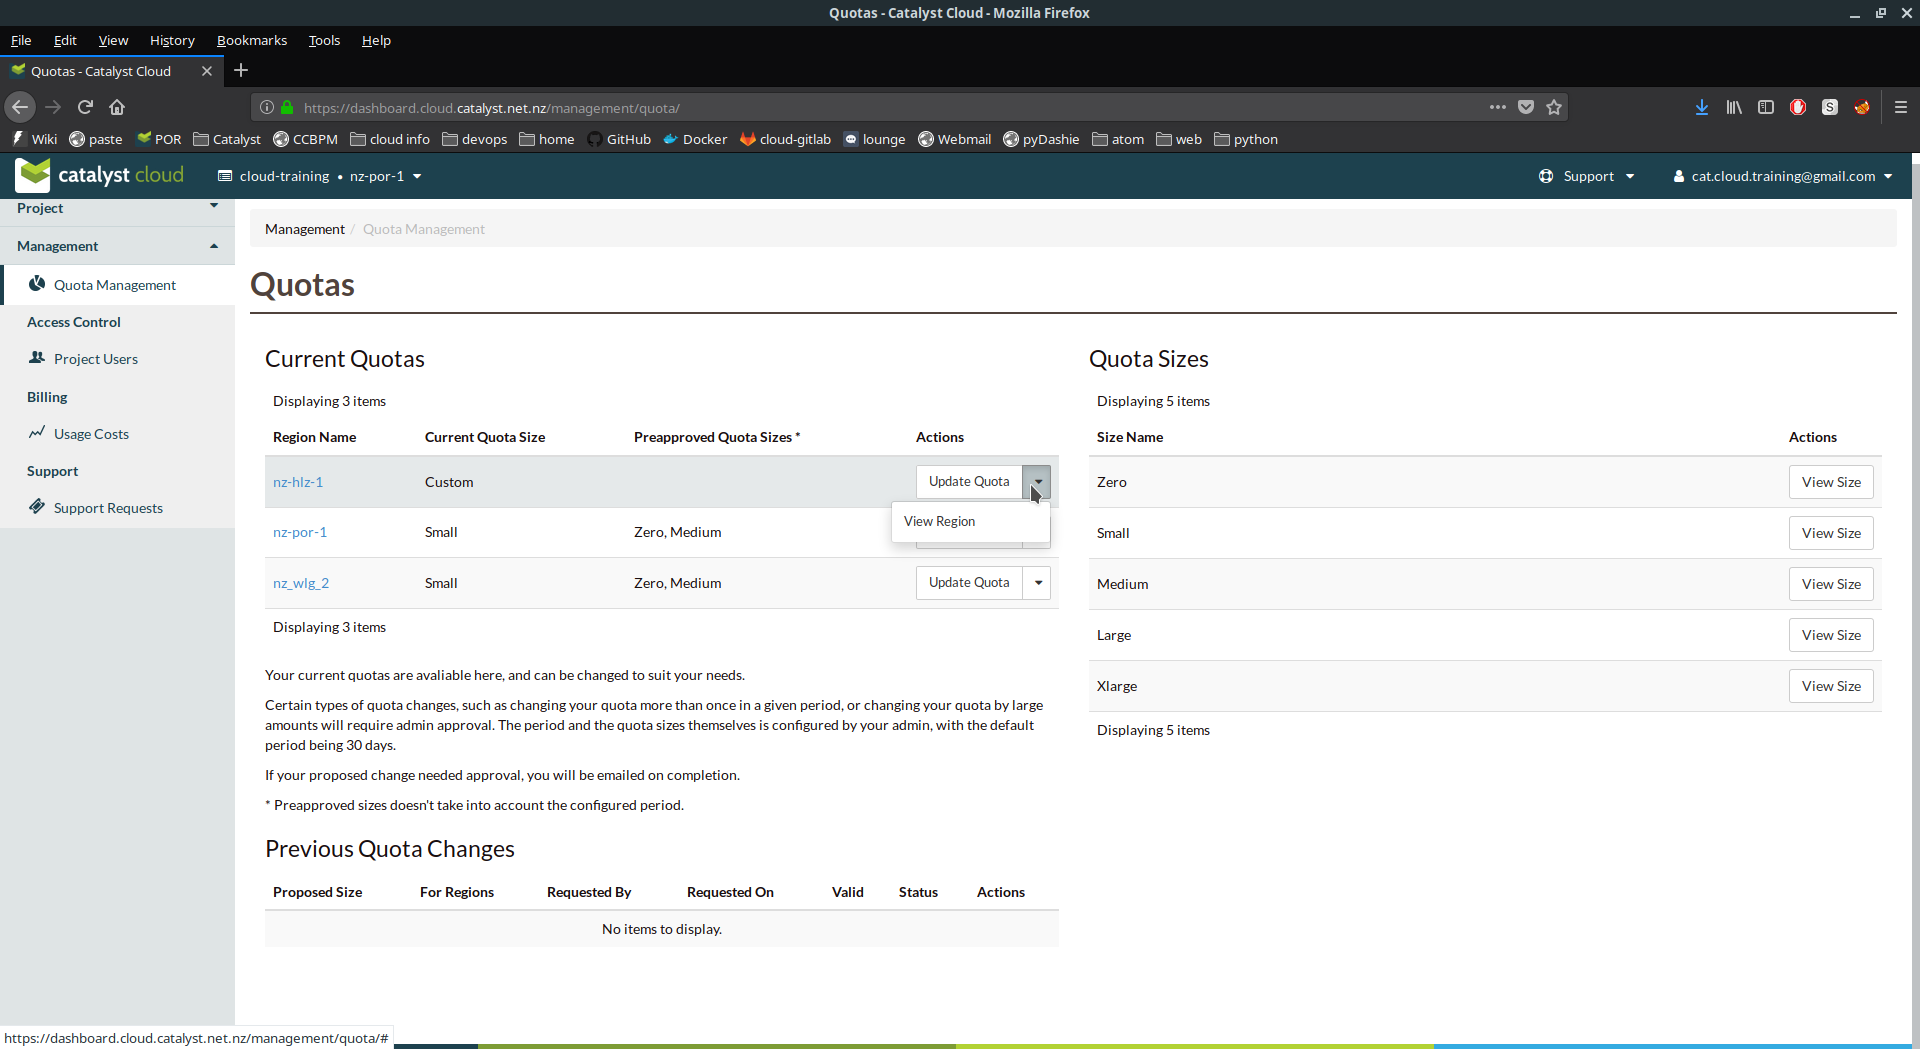
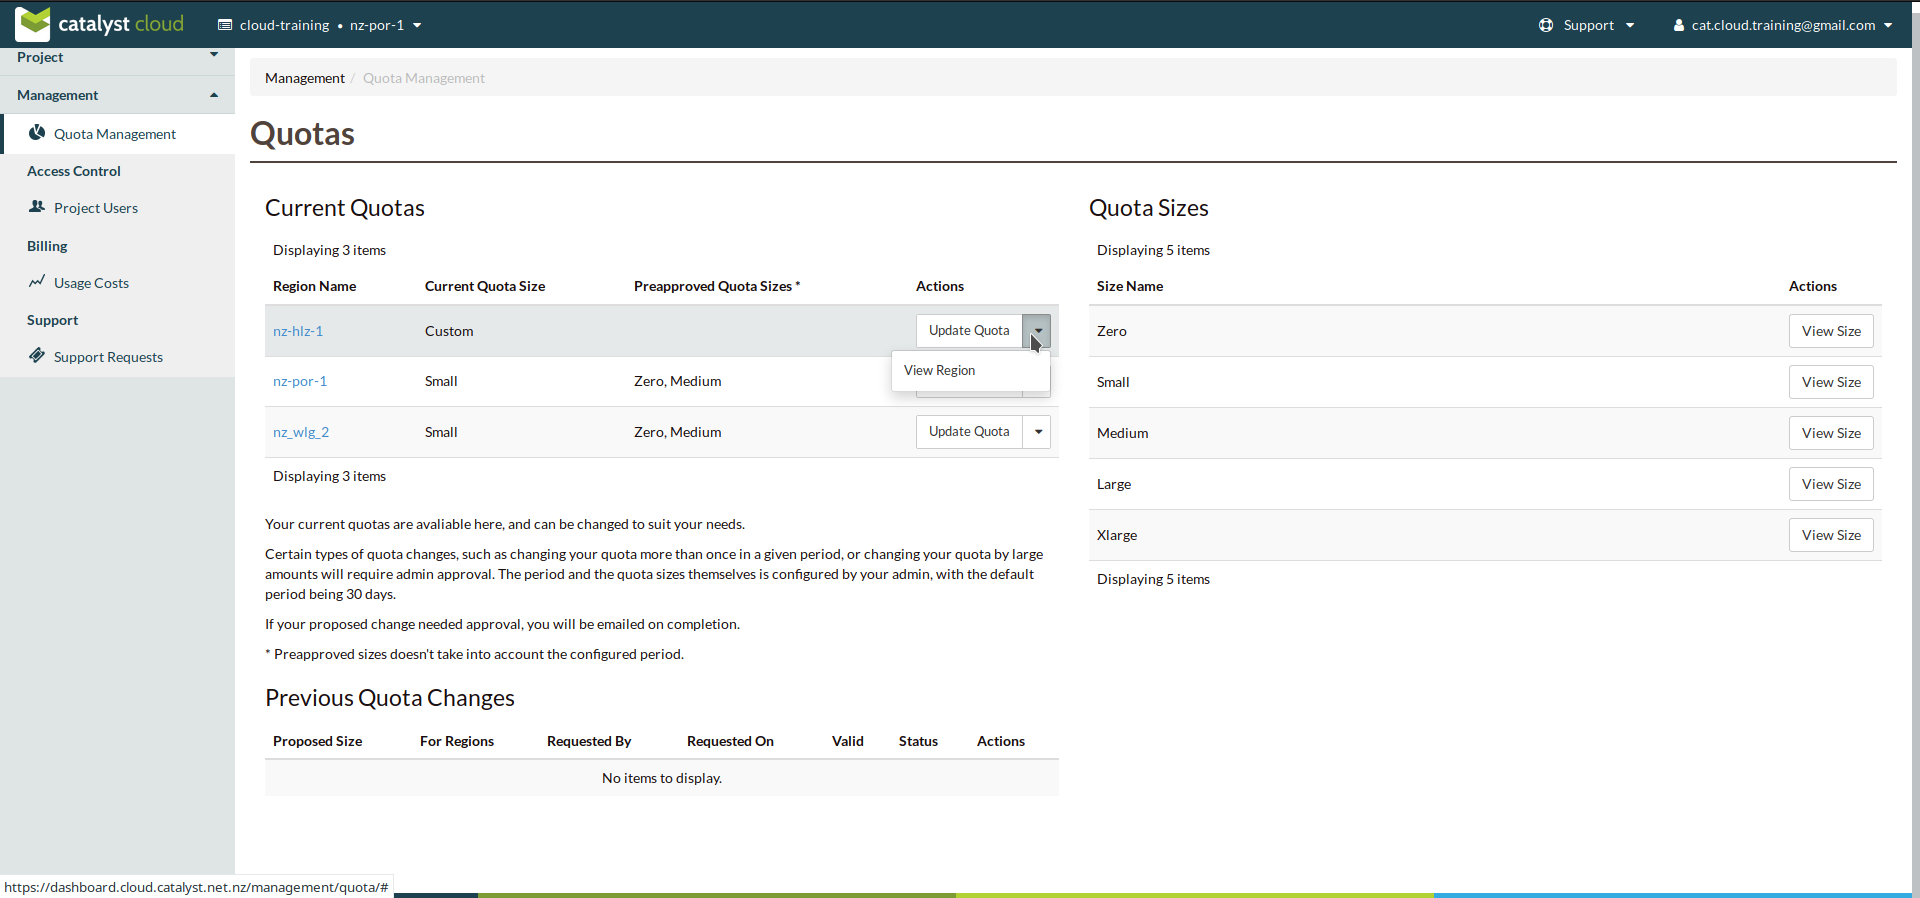
crop images to remove browser toolbar

diff --git a/source/management.rst b/source/management.rst
@@ -64,7 +64,7 @@ Select the new quota value and click submit
 
 |
 
-if your requested change does not fall into the preapproved category the **Previous Quota Changes**
+If your requested change does not fall into the preapproved category the **Previous Quota Changes**
 area will display a message showing the current state of your request.
 
 .. image:: _static/pending_change.png
